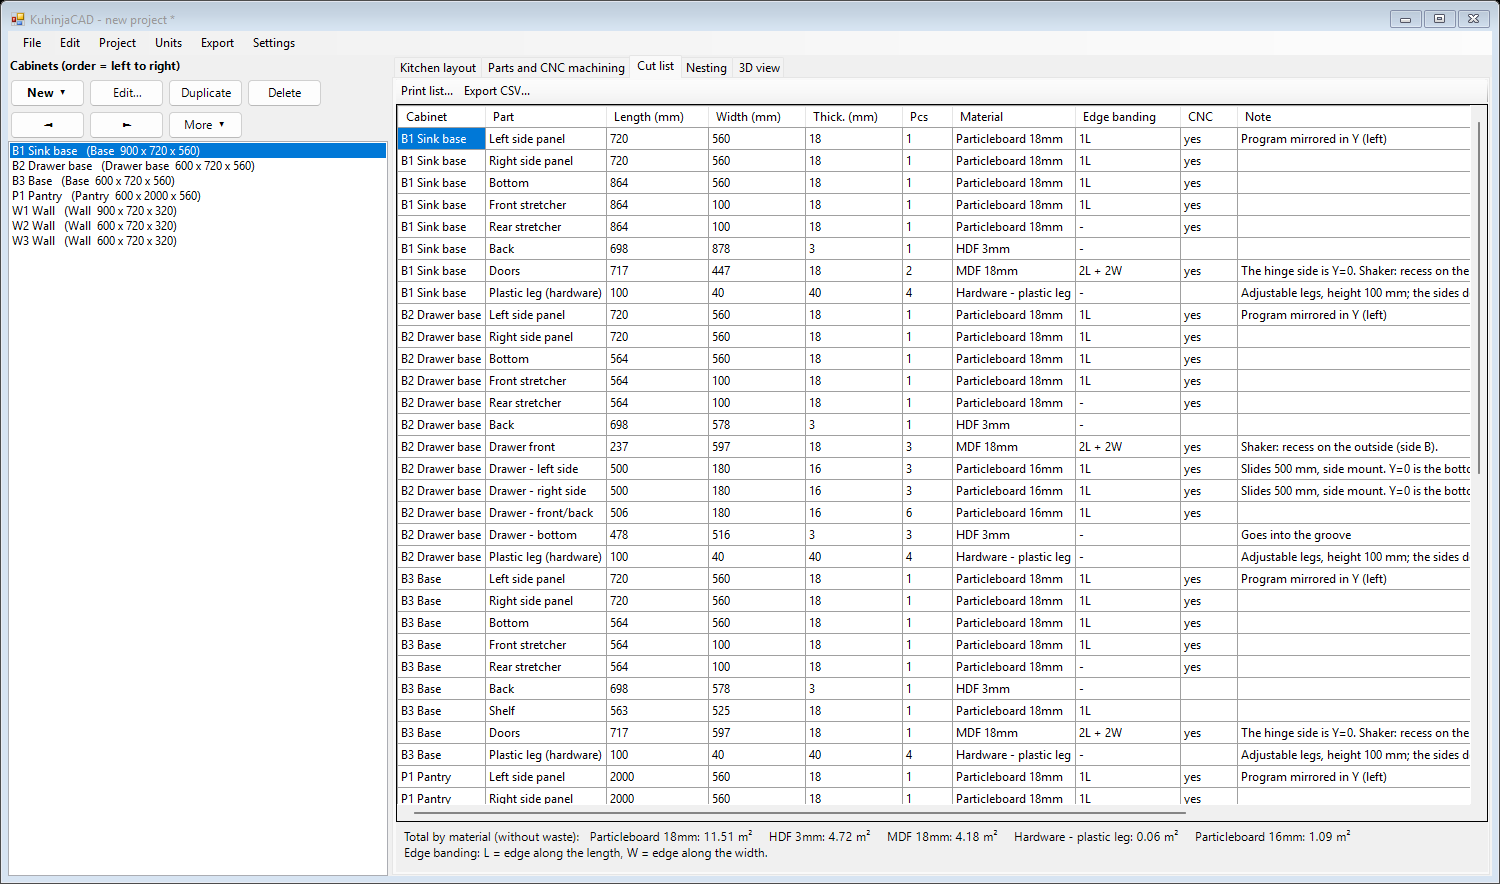
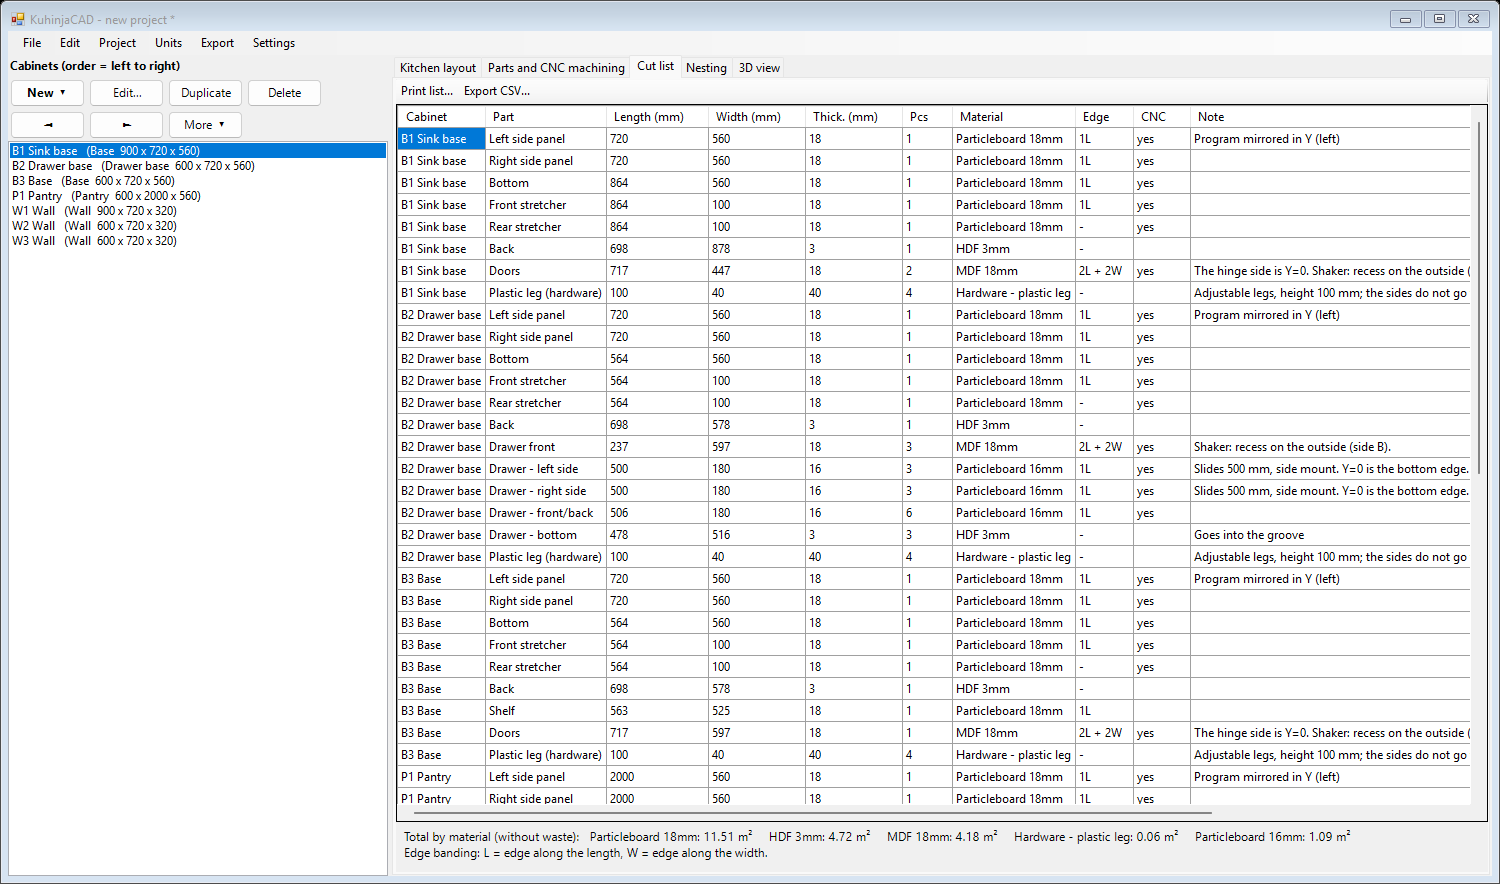
Portfolio: full screenshot gallery of program outputs

diff --git a/README.md b/README.md
@@ -6,7 +6,7 @@ Place cabinets along a wall and the program generates every panel, every drilled
 > **About this repository.** This is the *portfolio page* for the project: documentation and screenshots only.
 > **The source code is private** and is not published here. A live demo or a code walkthrough is available on request.
 
-![Kitchen layout](docs/screenshots/01-kitchen-layout.png)
+![Photorealistic render of the demo kitchen](docs/screenshots/07-photorealistic-render.png)
 
 ## Highlights
 
@@ -28,23 +28,36 @@ Place cabinets along a wall and the program generates every panel, every drilled
 
 ## Screenshots
 
-*All screenshots show the program's English interface with a demo project.*
+*All screenshots show the program's English interface with a demo project. The outputs (renders, drawings, lists, labels) are exactly what the program generates.*
 
-### Layout and elevation
-![Kitchen layout](docs/screenshots/01-kitchen-layout.png)
+### Design: layout, 3D, exploded view
+
+| Kitchen layout (elevation) | 3D view |
+|---|---|
+| ![Kitchen layout](docs/screenshots/01-kitchen-layout.png) | ![3D view](docs/screenshots/05-3d-view.png) |
+
+### Photorealistic render (built-in path tracer)
+![Photorealistic render](docs/screenshots/07-photorealistic-render.png)
 
 ### Every part with its CNC machining
 Each panel is drawn in a CAD-style view; holes, grooves and edge banding are layers, and every operation is editable in the table below.
 ![Parts and CNC machining](docs/screenshots/02-parts-and-cnc-machining.png)
 
-### Cut list
-![Cut list](docs/screenshots/03-cut-list.png)
+### Production: cut list, sheet optimization, labels
+| Cut list | Nesting (sheet optimization) |
+|---|---|
+| ![Cut list](docs/screenshots/03-cut-list.png) | ![Nesting](docs/screenshots/04-nesting.png) |
 
-### Nesting — sheet optimization
-![Nesting](docs/screenshots/04-nesting.png)
+| Printed cut list | Part labels (50 × 30 mm) |
+|---|---|
+| ![Printed cut list](docs/screenshots/08-printed-cut-list.png) | ![Part labels](docs/screenshots/12-part-labels.png) |
 
-### 3D view
-![3D view](docs/screenshots/05-3d-view.png)
+### Documents the program prints
+| Assembly instructions | Shop drawing of a cabinet |
+|---|---|
+| ![Assembly instructions](docs/screenshots/09-assembly-instructions.png) | ![Shop drawing](docs/screenshots/10-shop-drawing-drawer-base.png) |
+
+![Wall elevation drawing](docs/screenshots/11-wall-elevation-drawing.png)
 
 ### Exploded cabinet with numbered parts
 ![Exploded cabinet](docs/screenshots/06-exploded-cabinet.png)
@@ -52,7 +65,7 @@ Each panel is drawn in a CAD-style view; holes, grooves and edge banding are lay
 ### Parametric options
 | Cabinet properties | Project construction settings |
 |---|---|
-| ![Cabinet properties](docs/screenshots/07-cabinet-properties.png) | ![Project settings](docs/screenshots/08-project-settings.png) |
+| ![Cabinet properties](docs/screenshots/13-cabinet-properties.png) | ![Project settings](docs/screenshots/14-project-settings.png) |
 
 ## Source code and live demo — on request
 
